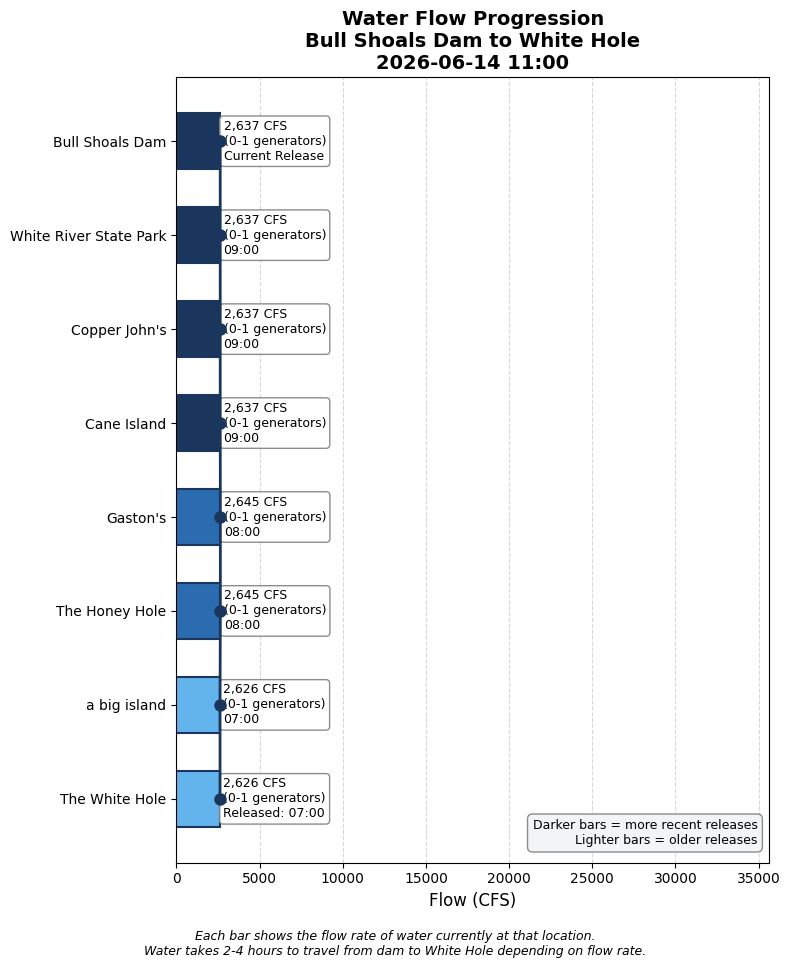
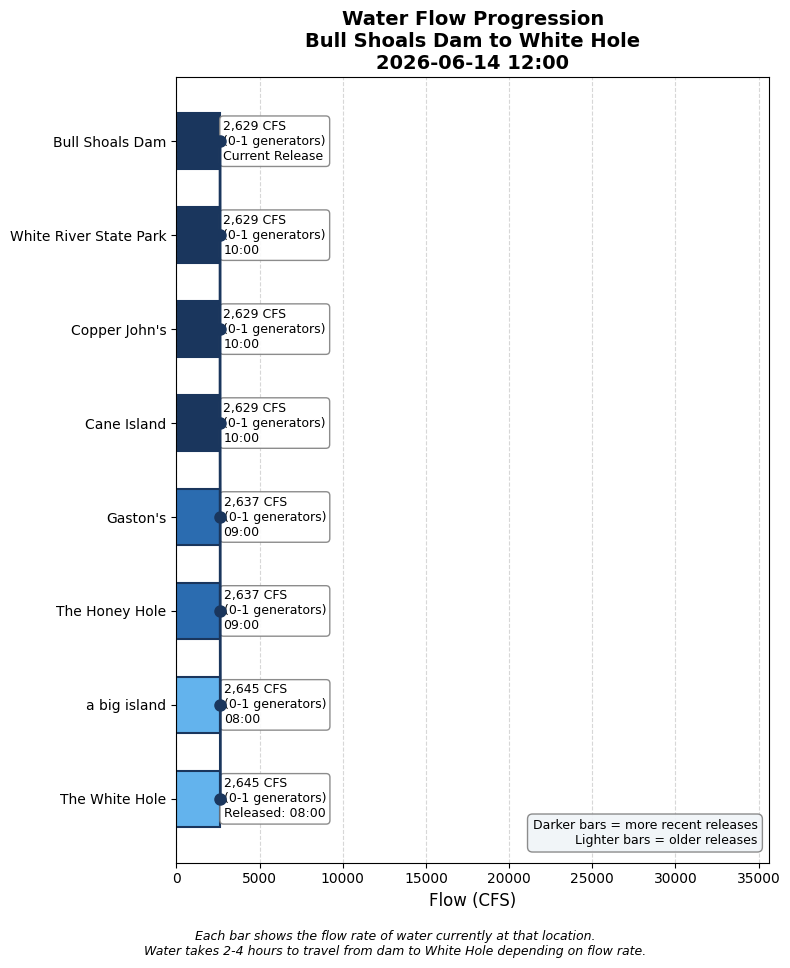
Update water conditions 2026-06-14 12:00

diff --git a/white_hole_conditions.html b/white_hole_conditions.html
@@ -3,7 +3,7 @@
 <head>
     <meta charset="UTF-8">
     <meta name="viewport" content="width=device-width, initial-scale=1.0">
-    <title>White Hole Conditions - 2026-06-14 11:00</title>
+    <title>White Hole Conditions - 2026-06-14 12:00</title>
     <style>
         body {
             font-family: -apple-system, BlinkMacSystemFont, 'Segoe UI', Roboto, sans-serif;
@@ -148,7 +148,7 @@
 </head>
 <body>
     <h1>White Hole Current Conditions</h1>
-    <p class="subtitle">Sunday, June 14, 2026 at 11:00 AM</p>
+    <p class="subtitle">Sunday, June 14, 2026 at 12:00 PM</p>
 
     <!-- HEADLINE BANNER -->
     <div class="headline-banner">
@@ -160,7 +160,7 @@
     <!-- CURRENT CONDITIONS -->
     <div class="current-conditions">
         <h3>Current Conditions at White Hole</h3>
-        <div class="flow-display">2,626 CFS</div>
+        <div class="flow-display">2,645 CFS</div>
         <div class="generator-display">Equivalent to 0-1 generators</div>
         <div class="condition-pills">
             <span class="pill wading">Still Wadable</span>
@@ -189,6 +189,14 @@
                 <tr><td colspan="3" style="padding: 8px 10px; font-size: 0.8em; font-weight: bold; color: #6b46c1; text-transform: uppercase; letter-spacing: 0.05em; background-color: #f3e8ff;">Scheduled (SWPA forecast)</td></tr>
                 
                     <tr style="background-color: #faf5ff; ">
+                        <td style="padding: 10px; font-weight: bold;">3 PM</td>
+                        <td style="padding: 10px;">2,951 CFS<br><small style="color: #666;">(0-1 generators: 2701 generation + 250 min flow)</small></td>
+                        <td style="padding: 10px;">~6:44 PM
+                            <span style="display: inline-block; margin-left: 6px; padding: 2px 8px; border-radius: 12px; font-size: 0.8em; background-color: #fef3c7; color: #92400e;">Still Wadable</span>
+                        </td>
+                    </tr>
+                
+                    <tr style="background-color: #faf5ff; ">
                         <td style="padding: 10px; font-weight: bold;">2 PM</td>
                         <td style="padding: 10px;">2,951 CFS<br><small style="color: #666;">(0-1 generators: 2701 generation + 250 min flow)</small></td>
                         <td style="padding: 10px;">~5:44 PM
@@ -212,39 +220,31 @@
                         </td>
                     </tr>
                 
-                    <tr style="background-color: #faf5ff; ">
-                        <td style="padding: 10px; font-weight: bold;">11 AM</td>
-                        <td style="padding: 10px;">2,951 CFS<br><small style="color: #666;">(0-1 generators: 2701 generation + 250 min flow)</small></td>
-                        <td style="padding: 10px;">~2:44 PM
-                            <span style="display: inline-block; margin-left: 6px; padding: 2px 8px; border-radius: 12px; font-size: 0.8em; background-color: #fef3c7; color: #92400e;">Still Wadable</span>
-                        </td>
-                    </tr>
-                
             
                     
                 <tr><td colspan="3" style="padding: 8px 10px; font-size: 0.8em; font-weight: bold; color: #2b6cb0; text-transform: uppercase; letter-spacing: 0.05em; background-color: #ebf8ff;">Actual (dam readings)</td></tr>
                 
                     <tr style="background-color: #ebf8ff;">
-                        <td style="padding: 10px; font-weight: bold;">9:00 AM</td>
-                        <td style="padding: 10px;">2,637 CFS<br><small style="color: #666;">(0-1 generators)</small></td>
-                        <td style="padding: 10px;"><span style="color: #2b6cb0;">→ Arrives ~12:44 PM (in 103 min)</span></td>
+                        <td style="padding: 10px; font-weight: bold;">10:00 AM</td>
+                        <td style="padding: 10px;">2,629 CFS<br><small style="color: #666;">(0-1 generators)</small></td>
+                        <td style="padding: 10px;"><span style="color: #2b6cb0;">→ Arrives ~1:44 PM (in 103 min)</span></td>
                     </tr>
                 
                     <tr style="background-color: #ebf8ff;">
-                        <td style="padding: 10px; font-weight: bold;">8:00 AM</td>
-                        <td style="padding: 10px;">2,645 CFS<br><small style="color: #666;">(0-1 generators)</small></td>
-                        <td style="padding: 10px;"><span style="color: #2b6cb0;">→ Arrives ~11:44 AM (in 43 min)</span></td>
+                        <td style="padding: 10px; font-weight: bold;">9:00 AM</td>
+                        <td style="padding: 10px;">2,637 CFS<br><small style="color: #666;">(0-1 generators)</small></td>
+                        <td style="padding: 10px;"><span style="color: #2b6cb0;">→ Arrives ~12:44 PM (in 43 min)</span></td>
                     </tr>
                 
                     <tr style="background-color: #e6fffa;">
-                        <td style="padding: 10px; font-weight: bold;">7:00 AM</td>
-                        <td style="padding: 10px;">2,626 CFS<br><small style="color: #666;">(0-1 generators)</small></td>
+                        <td style="padding: 10px; font-weight: bold;">8:00 AM</td>
+                        <td style="padding: 10px;">2,645 CFS<br><small style="color: #666;">(0-1 generators)</small></td>
                         <td style="padding: 10px;"><span style="color: #319795; font-weight: bold;">← AT WHITE HOLE NOW</span></td>
                     </tr>
                 
                     <tr style="">
-                        <td style="padding: 10px; font-weight: bold;">4:00 AM</td>
-                        <td style="padding: 10px;">773 CFS<br><small style="color: #666;">(0-1 generators)</small></td>
+                        <td style="padding: 10px; font-weight: bold;">5:00 AM</td>
+                        <td style="padding: 10px;">727 CFS<br><small style="color: #666;">(0-1 generators)</small></td>
                         <td style="padding: 10px;"><span style="color: #718096;">passed</span></td>
                     </tr>
                 
@@ -274,9 +274,9 @@
         </summary>
         <div style="padding: 15px;">
             <ul>
-                <li>Latest dam reading: 2,637 CFS at 2026-06-14 09:00</li>
+                <li>Latest dam reading: 2,629 CFS at 2026-06-14 10:00</li>
                 <li>Travel time to White Hole: 3.7 hours at current flow</li>
-                <li>White Hole conditions based on dam reading from: 2026-06-14 07:00</li>
+                <li>White Hole conditions based on dam reading from: 2026-06-14 08:00</li>
             </ul>
         </div>
     </details>
@@ -298,6 +298,13 @@
                     </thead>
                     <tbody>
                         
+                <tr style="border-bottom: 1px solid #eee;">
+                    <td style="padding: 8px;">2026-06-14 10:00</td>
+                    <td style="padding: 8px; text-align: right;">2629</td>
+                    <td style="padding: 8px; text-align: right;">0.8</td>
+                    <td style="padding: 8px; text-align: right;">3.7</td>
+                </tr>
+                
                 <tr style="border-bottom: 1px solid #eee;">
                     <td style="padding: 8px;">2026-06-14 09:00</td>
                     <td style="padding: 8px; text-align: right;">2637</td>
@@ -368,7 +375,7 @@
         
 
     <div class="timestamp">
-        Data retrieved and processed on 2026-06-14 11:00:13
+        Data retrieved and processed on 2026-06-14 12:00:07
     </div>
 </body>
 </html>
